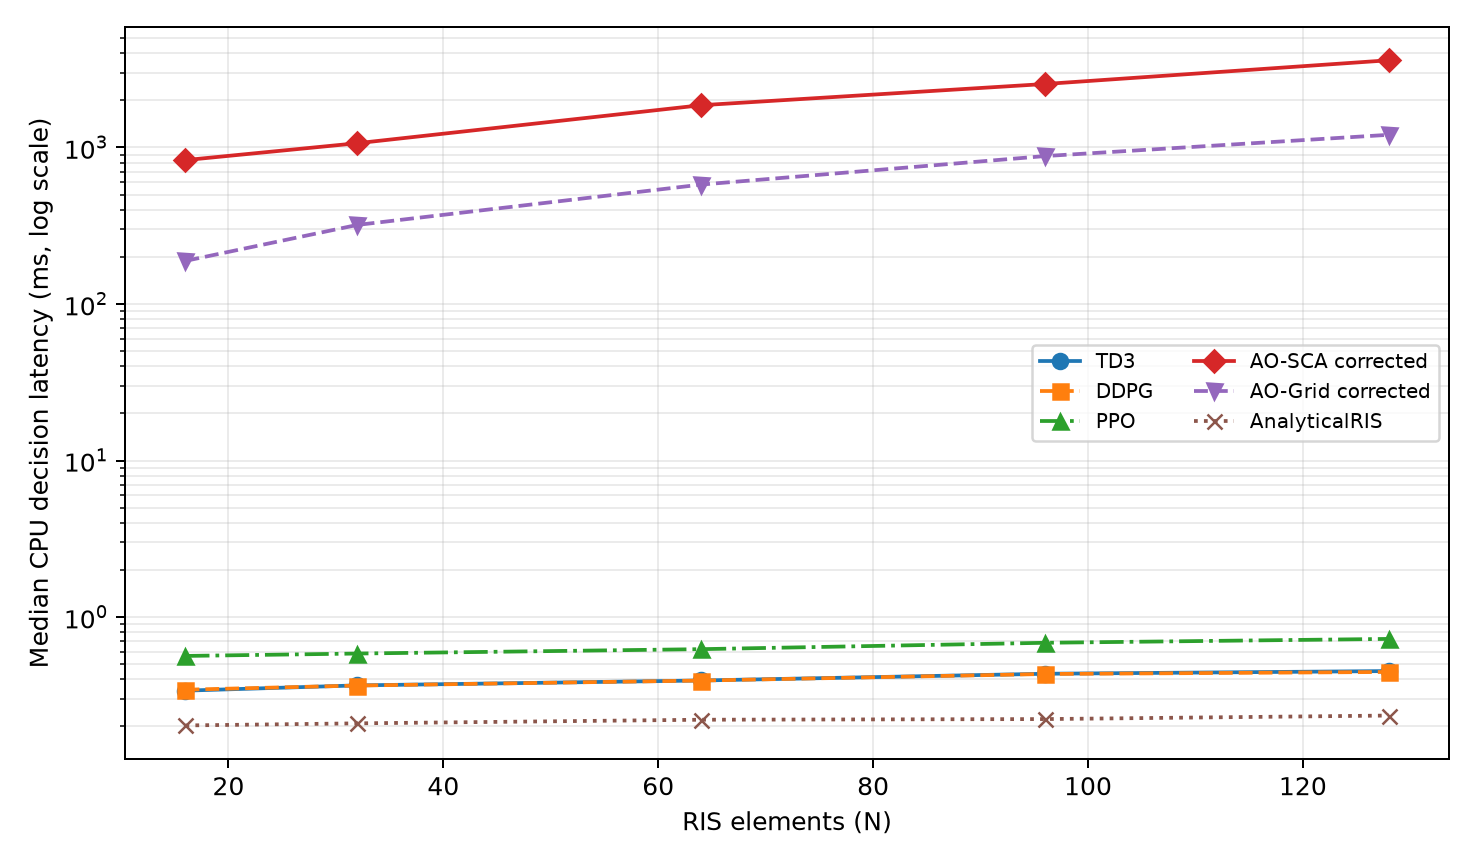
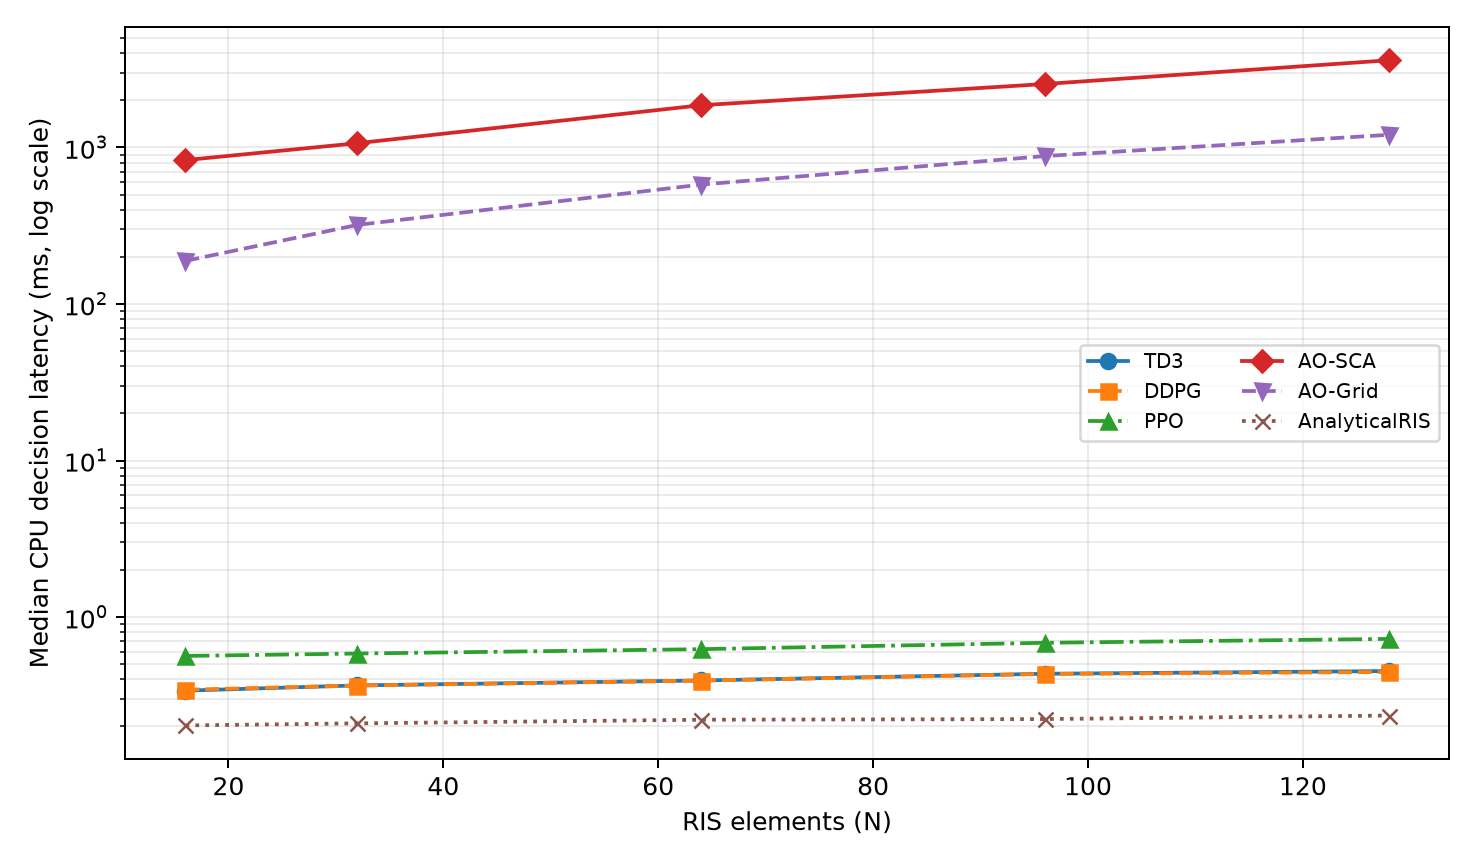
Add a Vietnamese figure set and drop "corrected" from the legends
The thesis is written in Vietnamese, so axis labels, titles and legend
headings are now selected by --language, with the English set unchanged and
still the default. Method names stay as they are: TD3, DDPG, PPO, AO-SCA,
AO-Grid, AnalyticalRIS.

The legends said "AO-SCA corrected" and "AO-Grid corrected". The qualifier
belongs in the text that describes the baseline, not in a legend entry, and
it is what the published data contains either way: every baseline row
carries algorithm_version corrected_pairwise_ao_v2 or corrected_ao_grid_v1.
The thesis still has to describe what those solvers actually do, because
they are not the textbook versions.

figures_vi carries the Vietnamese set alongside the English figures. The
default font covers Vietnamese diacritics, checked for missing glyphs before
building.

Changed region(s): [[0.6856, 0.4062, 0.9661, 0.5]]

diff --git a/scripts/build_physical_v6_full_report.py b/scripts/build_physical_v6_full_report.py
@@ -24,6 +24,53 @@ SEEDS = tuple(range(5))
 METRICS = ("sum_rate", "qos_fraction", "all_qos", "violation")
 PARAMETERIZATION = "physical_v6_soft_anchor"
 
+# Figure text. The thesis is written in Vietnamese, so the wording is
+# selectable while the method names stay as published.
+METHOD_LABELS = {
+    "td3": "TD3",
+    "ddpg": "DDPG",
+    "ppo": "PPO",
+    "ao_sca": "AO-SCA",
+    "ao_grid": "AO-Grid",
+    "analytical_ris": "AnalyticalRIS",
+}
+FIGURE_TEXT = {
+    "en": {
+        "n_ris": "RIS elements (N)",
+        "test_sum_rate": "Mean test sum-rate (bit/s/Hz)",
+        "test_note": "Held-out test set, best checkpoint, mean over five seeds",
+        "learning_gain": "Mean learning gain: best - initial",
+        "training_minutes": "Mean training time per 100k job (minutes)",
+        "latency": "Median CPU decision latency (ms, log scale)",
+        "sum_rate": "Mean sum-rate (bit/s/Hz)",
+        "step": "Training step",
+        "validation_sum_rate": "Validation sum-rate (bit/s/Hz)",
+        "band": "band = min-max over 5 seeds",
+        "qos_satisfaction": "Fraction of scenarios with every user served",
+        "qos_title": "QoS satisfaction (higher is better)",
+        "violation": "Mean QoS shortfall (log scale)",
+        "violation_title": "Residual violation (lower is better)",
+        "violation_floor": "markers on the dotted floor are exactly zero",
+    },
+    "vi": {
+        "n_ris": "Số phần tử RIS (N)",
+        "test_sum_rate": "Tổng tốc độ trung bình trên tập kiểm tra (bit/s/Hz)",
+        "test_note": "Tập kiểm tra tách riêng, checkpoint tốt nhất, trung bình 5 hạt giống",
+        "learning_gain": "Mức cải thiện nhờ huấn luyện: tốt nhất − khởi tạo",
+        "training_minutes": "Thời gian huấn luyện trung bình mỗi tác vụ 100k bước (phút)",
+        "latency": "Độ trễ quyết định CPU trung vị (ms, thang log)",
+        "sum_rate": "Tổng tốc độ trung bình (bit/s/Hz)",
+        "step": "Bước huấn luyện",
+        "validation_sum_rate": "Tổng tốc độ trên tập thẩm định (bit/s/Hz)",
+        "band": "dải = nhỏ nhất–lớn nhất trên 5 hạt giống",
+        "qos_satisfaction": "Tỷ lệ kịch bản mọi người dùng đều đạt QoS",
+        "qos_title": "Mức đáp ứng QoS (càng cao càng tốt)",
+        "violation": "Mức thiếu hụt QoS trung bình (thang log)",
+        "violation_title": "Vi phạm còn lại (càng thấp càng tốt)",
+        "violation_floor": "điểm nằm trên đường chấm là bằng đúng 0",
+    },
+}
+
 
 def sha256(path: Path) -> str:
     digest = hashlib.sha256()
@@ -424,9 +471,11 @@ def plot_results(
     output: Path,
     latency_table: Path | None = None,
     curves: pd.DataFrame | None = None,
+    language: str = "en",
 ) -> None:
     output.mkdir(parents=True, exist_ok=True)
-    labels = {"td3": "TD3", "ddpg": "DDPG", "ppo": "PPO", "ao_sca": "AO-SCA corrected", "ao_grid": "AO-Grid corrected", "analytical_ris": "AnalyticalRIS"}
+    labels = METHOD_LABELS
+    text = FIGURE_TEXT[language]
     # TD3 and DDPG land within 0.005 ms of each other, so on colour alone one
     # line hides the other completely and appears to be missing.
     styles = {
@@ -441,11 +490,7 @@ def plot_results(
     for method in ALL_METHODS:
         frame = performance[performance.method == method].sort_values("n_ris")
         ax.plot(frame.n_ris, frame.sum_rate_mean, label=labels[method], **styles[method])
-    ax.set(
-        xlabel="RIS elements (N)",
-        ylabel="Mean test sum-rate (bit/s/Hz)",
-        title="Held-out test set, best checkpoint, mean over five seeds",
-    )
+    ax.set(xlabel=text["n_ris"], ylabel=text["test_sum_rate"], title=text["test_note"])
     ax.grid(alpha=0.25)
     ax.legend(ncol=2, fontsize=8)
     fig.tight_layout()
@@ -458,7 +503,7 @@ def plot_results(
         means = frame.groupby("n_ris").learning_gain_best_minus_initial.mean().reindex(N_VALUES)
         ax.plot(N_VALUES, means, label=labels[method], **styles[method])
     ax.axhline(0, color="black", linewidth=0.8)
-    ax.set(xlabel="RIS elements (N)", ylabel="Mean learning gain: best - initial")
+    ax.set(xlabel=text["n_ris"], ylabel=text["learning_gain"])
     ax.grid(alpha=0.25)
     ax.legend()
     fig.tight_layout()
@@ -469,7 +514,7 @@ def plot_results(
     for method in METHODS:
         frame = timing[timing.method == method].sort_values("n_ris")
         ax.plot(frame.n_ris, frame.training_minutes_mean, label=labels[method], **styles[method])
-    ax.set(xlabel="RIS elements (N)", ylabel="Mean training time per 100k job (minutes)")
+    ax.set(xlabel=text["n_ris"], ylabel=text["training_minutes"])
     ax.grid(alpha=0.25)
     ax.legend()
     fig.tight_layout()
@@ -497,10 +542,10 @@ def plot_results(
                     block.index, block["min"], block["max"],
                     alpha=0.15, color=line.get_color(), linewidth=0,
                 )
-            ax.set(xlabel="Training step", title=labels[method])
+            ax.set(xlabel=text["step"], title=labels[method])
             ax.grid(alpha=0.25)
-        np.atleast_1d(axes)[0].set_ylabel("Validation sum-rate (bit/s/Hz)")
-        np.atleast_1d(axes)[-1].legend(fontsize=7, title="band = min-max over 5 seeds")
+        np.atleast_1d(axes)[0].set_ylabel(text["validation_sum_rate"])
+        np.atleast_1d(axes)[-1].legend(fontsize=7, title=text["band"])
         fig.tight_layout()
         fig.savefig(output / "fig06_v6_learning_curves.png", dpi=180)
         plt.close(fig)
@@ -520,23 +565,17 @@ def plot_results(
             **styles[method],
         )
     axes[0].set(
-        xlabel="RIS elements (N)",
-        ylabel="Fraction of scenarios with every user served",
-        title="QoS satisfaction (higher is better)",
+        xlabel=text["n_ris"], ylabel=text["qos_satisfaction"], title=text["qos_title"]
     )
     axes[0].set_ylim(-0.05, 1.05)
     axes[1].set_yscale("log")
     axes[1].axhline(1e-7, color="black", linewidth=0.6, linestyle=":", alpha=0.6)
     axes[1].set(
-        xlabel="RIS elements (N)",
-        ylabel="Mean QoS shortfall (log scale)",
-        # A log axis cannot draw zero, and both corrected solvers reach exactly
-        # zero at most N, so say where they actually are.
-        title=(
-            "Residual violation (lower is better)"
-            + chr(10)
-            + "markers on the dotted floor are exactly zero"
-        ),
+        xlabel=text["n_ris"],
+        ylabel=text["violation"],
+        # A log axis cannot draw zero, and both solvers reach exactly zero at
+        # most N, so say where they actually are.
+        title=text["violation_title"] + chr(10) + text["violation_floor"],
     )
     for ax in axes:
         ax.grid(alpha=0.25, which="both")
@@ -576,10 +615,7 @@ def plot_results(
                 fontsize=7,
             )
         ax.set_xscale("log")
-        ax.set(
-            xlabel="Median CPU decision latency (ms, log scale)",
-            ylabel="Mean sum-rate (bit/s/Hz)",
-        )
+        ax.set(xlabel=text["latency"], ylabel=text["sum_rate"])
         ax.grid(alpha=0.25, which="both")
         ax.legend(ncol=2, fontsize=8, loc="lower right")
         fig.tight_layout()
@@ -690,6 +726,12 @@ def main() -> None:
     parser.add_argument("--baseline-raw", type=Path, default=Path("results/six_method_v2/raw/TRADITIONAL_TEST_RAW_ALL.csv"))
     parser.add_argument("--output", type=Path, default=Path("results/physical_v6_full"))
     parser.add_argument(
+        "--language",
+        choices=sorted(FIGURE_TEXT),
+        default="en",
+        help="Language for figure axis labels and titles",
+    )
+    parser.add_argument(
         "--github-artifacts",
         type=Path,
         help="JSON mapping each method to the run/artifact it was downloaded from",
@@ -762,6 +804,7 @@ def main() -> None:
         figures,
         latency_table=tables / "TABLE_V6_SIX_METHOD_CPU_LATENCY.csv",
         curves=curves,
+        language=args.language,
     )
     latency_path = tables / "TABLE_V6_SIX_METHOD_CPU_LATENCY.csv"
     latency = pd.read_csv(latency_path) if latency_path.is_file() else None

diff --git a/scripts/summarize_physical_v6_latency.py b/scripts/summarize_physical_v6_latency.py
@@ -124,8 +124,29 @@ def speedups(summary: pd.DataFrame) -> pd.DataFrame:
     return pd.DataFrame(rows)
 
 
-def plot(summary: pd.DataFrame, target: Path) -> None:
-    labels = {"td3": "TD3", "ddpg": "DDPG", "ppo": "PPO", "ao_sca": "AO-SCA corrected", "ao_grid": "AO-Grid corrected", "analytical_ris": "AnalyticalRIS"}
+METHOD_LABELS = {
+    "td3": "TD3",
+    "ddpg": "DDPG",
+    "ppo": "PPO",
+    "ao_sca": "AO-SCA",
+    "ao_grid": "AO-Grid",
+    "analytical_ris": "AnalyticalRIS",
+}
+FIGURE_TEXT = {
+    "en": {
+        "n_ris": "RIS elements (N)",
+        "latency": "Median CPU decision latency (ms, log scale)",
+    },
+    "vi": {
+        "n_ris": "Số phần tử RIS (N)",
+        "latency": "Độ trễ quyết định CPU trung vị (ms, thang log)",
+    },
+}
+
+
+def plot(summary: pd.DataFrame, target: Path, language: str = "en") -> None:
+    labels = METHOD_LABELS
+    text = FIGURE_TEXT[language]
     fig, ax = plt.subplots(figsize=(8.2, 4.8))
     for method in METHODS:
         frame = summary[summary.method == method].sort_values("n_ris")
@@ -136,7 +157,7 @@ def plot(summary: pd.DataFrame, target: Path) -> None:
             **STYLES[method],
         )
     ax.set_yscale("log")
-    ax.set(xlabel="RIS elements (N)", ylabel="Median CPU decision latency (ms, log scale)")
+    ax.set(xlabel=text["n_ris"], ylabel=text["latency"])
     ax.grid(alpha=0.25, which="both")
     ax.legend(ncol=2, fontsize=8)
     fig.tight_layout()
@@ -150,6 +171,7 @@ def main() -> None:
     parser.add_argument("--input", type=Path, required=True)
     parser.add_argument("--checkpoint-index", type=Path, required=True)
     parser.add_argument("--output", type=Path, required=True)
+    parser.add_argument("--language", choices=sorted(FIGURE_TEXT), default="en")
     args = parser.parse_args()
 
     paths = sorted(args.input.glob("*.csv"))
@@ -175,7 +197,7 @@ def main() -> None:
     (args.output / "LATENCY_CHECKPOINT_INDEX.json").write_text(
         json.dumps(checkpoint_index, indent=2, sort_keys=True), encoding="utf-8"
     )
-    plot(table, figures / "fig04_v6_six_method_cpu_latency.png")
+    plot(table, figures / "fig04_v6_six_method_cpu_latency.png", args.language)
 
     audit = {
         "verdict": "PASS",
